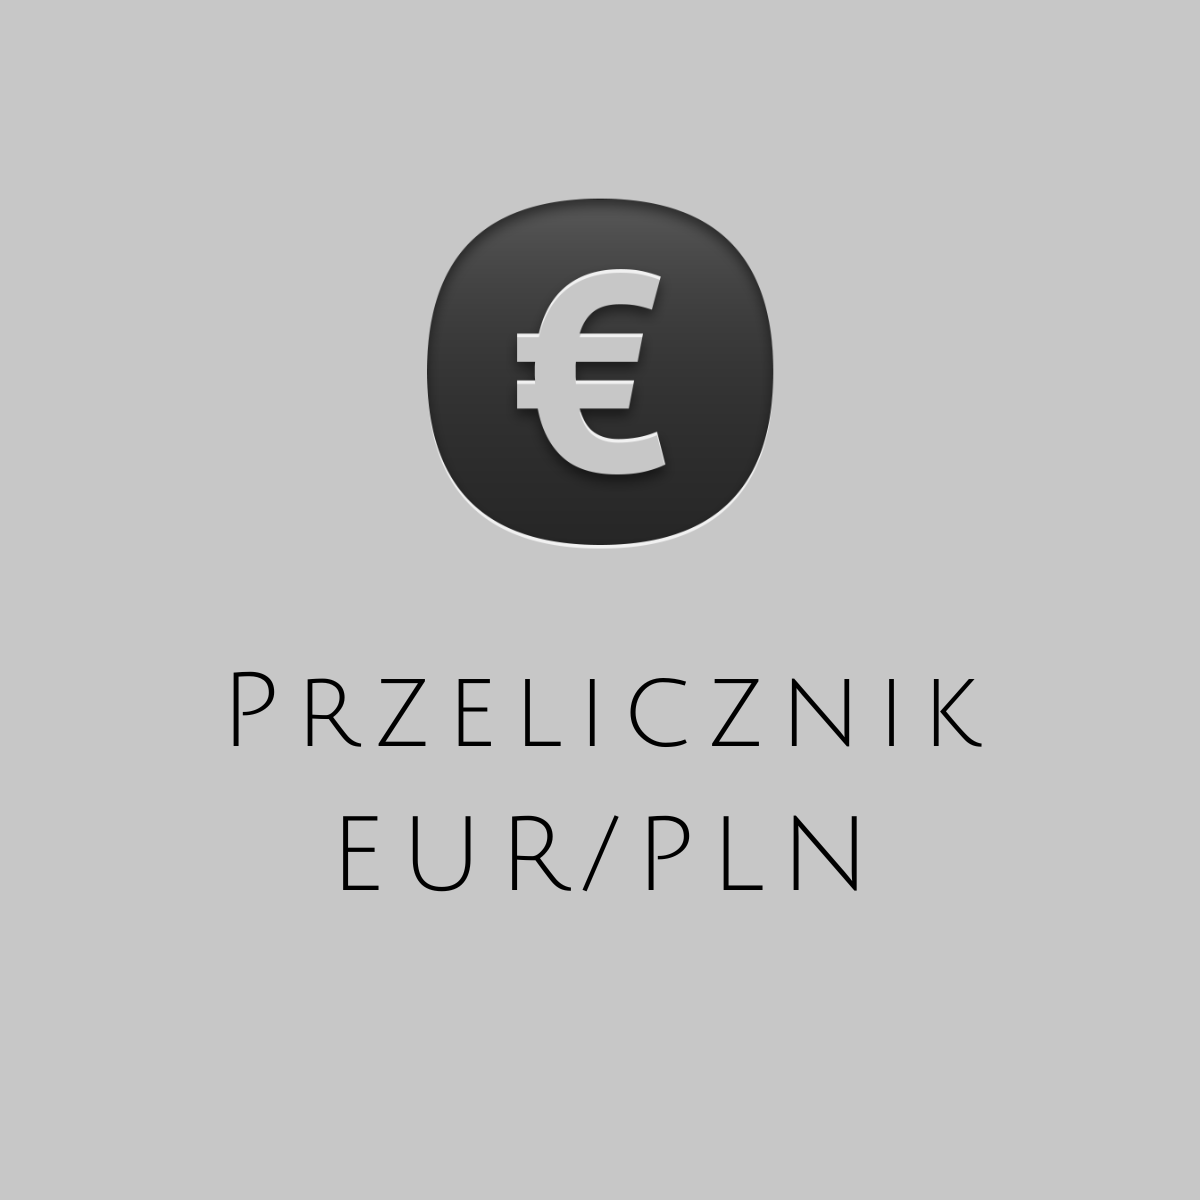
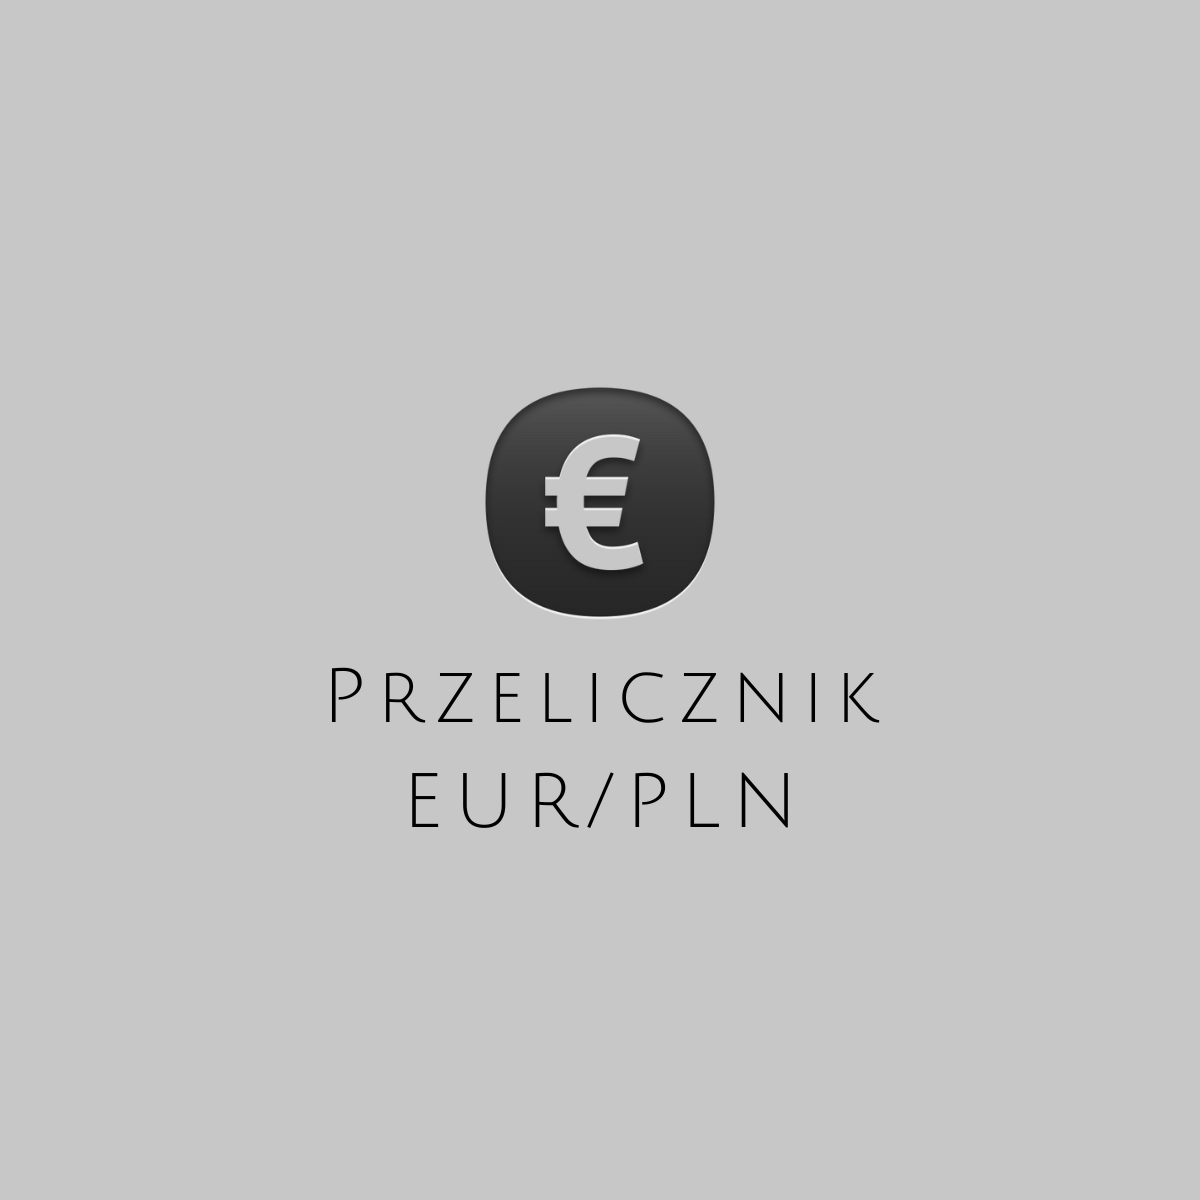
og image updated

diff --git a/index.html b/index.html
@@ -4,7 +4,7 @@
 <head>
     <meta charset="UTF-8">
     <meta name="viewport" content="width=device-width, initial-scale=1.0">
-    <meta property="og:image" content="https://i.postimg.cc/9QCyrpWC/share.png">
+    <meta property="og:image" content="https://i.postimg.cc/4xgjyr7y/share.png">
     <title>Przelicznik EUR/PLN</title>
     <link href="https://fonts.googleapis.com/css2?family=Lato:wght@400;700&display=swap" rel="stylesheet">
     <link rel="stylesheet" href="https://cdnjs.cloudflare.com/ajax/libs/normalize/8.0.1/normalize.min.css"
